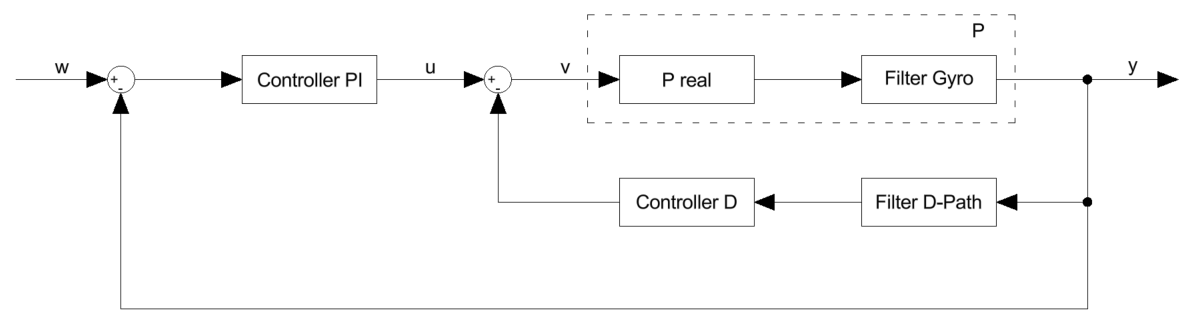
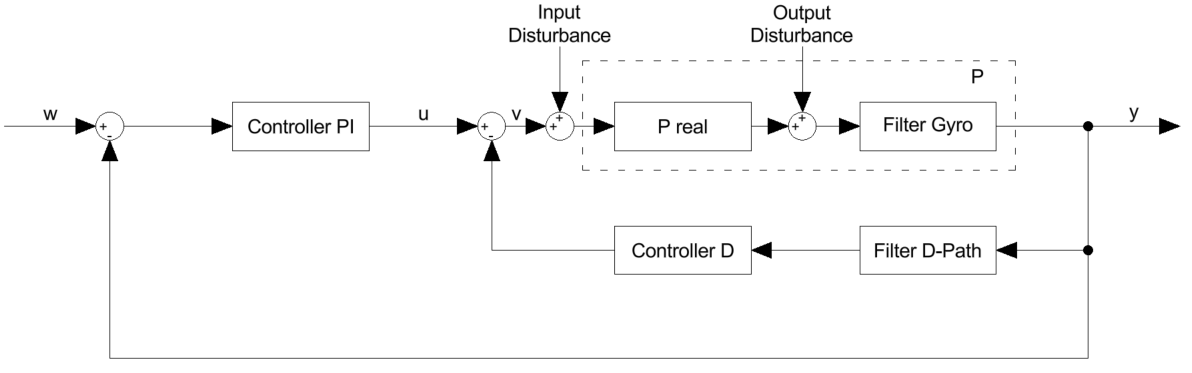
Update images and documentation for controller tuning
Added Controller_Bode.png and updated Regelstrecke.png in both LaTeX and Markdown directories. Modified labstyle.sty to update the lab header to 'Betaflight-Offline Controller Tuning'. Expanded technical documentation with sections on Gang of Four analysis and an example explaining PID controller frequency response.

diff --git a/markdown/technical Documentation/technical_Documentation.md b/markdown/technical Documentation/technical_Documentation.md
@@ -216,6 +216,10 @@ Spectral analysis examines how the system reacts to various input frequencies, p
 
 Spectrum analysis extends the ideas of spectral analysis by providing a richer, multi-dimensional understanding of the signal’s frequency content over time or in our case thrust. By grouping FFT segments into bins across an additional axis, such as throttle or angle, this technique maps the power spectrum as a function of both frequency and a chosen variable. This multi-dimensional approach is particularly useful in applications that require an understanding of how system dynamics evolve during flight. Relevant methodologies and results are documented in the [Spectrum Analysis section](https://github.com/InsaneBroccoli/bf_controller_tuning/blob/PA_final/markdown/Spectrum_Spectogram/Spectrum_Analysis.md).
 
+### Gang of Four Analysis
+
+The Gang of Four plots provide a compact overview of the closed-loop behaviour of the control system. The show how the tuned 
+
 # 4. Working steps and Problems
 
 ## 4.1 Simulations
@@ -233,6 +237,10 @@ In addition to the MATLAB code, we created a Simulink model, in which we tested 
 
 To deepen our understanding of the different controller components, we created an additional MATLAB script. It allowed us to combine different controller types with simple plant models. In the program you can switch between P, I, PI, PD and PID controllers, and between basic plant types. Through this, we were able to observe how each controller component influences the overall system behaviour.
 The script calculates the open and closed loop of the chosen settings and generates Bode plots, Nyquist diagrams and step responses. This helped us to understand and visualize the effect of each component. Trough that, our overall understanding of contoller behaviour significantly improved.
+
+
+Fore example, in the plot you see the frequency response of a PID controller. The value Kp lays at 100, if you transfer the 100 into dB you get 40dB. This is exactly the value you see in the bode plot at the middle frequencies of the plot. The Ki part is responsible for the slope of -20db/decade at low frequencies and the Kd part for the slope of +20db/decade at high frequencies. 
+
 
 ### 4.1.3 Simulation Frequency Response
 
